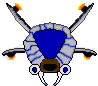
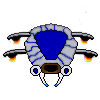
Added hitbox and updated mob images

diff --git a/src/com/gameon/head/Engine.java b/src/com/gameon/head/Engine.java
@@ -28,38 +28,21 @@ public class Engine {
 
 		this.p = new Player(rl.getShip(), null);
 		this.sn = new SuperNova(rl.getShip(), null);
+		enemies.add(new Enemy(rl.getRedEnemy(), null));
 	}
 	public void tick() {
-		removeExcess();
+		despawn();
 		move();
 		killHit();
 	}
 	public void tick(int[] keys) {
-		removeExcess();
+		despawn();
 		inputMovement(keys);
 		move();
 		killHit();
 	}
-	
-
-	private void removeExcess() {
-		for (int i = 0; i < enemies.size(); i++) {
-			if (enemies.get(i).getX() <= 50 || enemies.get(i).getX() >= 1300 || enemies.get(i).getY() <= 50
-					|| enemies.get(i).getY() >= 750) {
-				enemies.remove(i);
-			}
-		}
-		for (int i = 0; i < enemies.size(); i++) {
-			if (shots.get(i).getX() <= 50 || shots.get(i).getX() >= 1300 || shots.get(i).getY() <= -69
-					|| shots.get(i).getY() >= 750) {
-				shots.remove(i);
-			}
-		}
-
-	}
 
 	private void inputMovement(int[] keys) {
-
 		for (int key : keys) {
 
 			if (key == 65 || key == 97) {// A
@@ -91,6 +74,7 @@ public class Engine {
 	}
 
 	private void move() {
+		
 		sn.addDistance();
 		p.addDistance();
 		if (enemies != null) {
@@ -103,28 +87,55 @@ public class Engine {
 			shots.get(i).move();
 		}
 		// Add deathAnimation
-		enemies.add(new Enemy(rl.getRedEnemy(), null));
+		
 
 	}
 
+	
+	private void despawn(){
+		for (int i = 0; i < enemies.size(); i++) {
+			if (enemies.get(i).getX() <= -100 || enemies.get(i).getX() >= 1300 || enemies.get(i).getY() <= -100 || enemies.get(i).getY() >= 750  || enemies.get(i).isKilled()) {
+				enemies.remove(i);
+			}
+		}
+		for (int i = 0; i < shots.size(); i++) {
+			if (shots.get(i).getX() <= -100 || shots.get(i).getX() >= 1300 || shots.get(i).getY() <= -100 || shots.get(i).getY() >= 750) {
+				shots.remove(i);
+			}
+		}
+		
+	}
 	private void killHit() {
 		// Detects any enemy that has crashed into the player
 		for (int i = 0; i < enemies.size(); i++) {
-			if (enemies.get(i).killed()) {
-				if (collisionDetect(enemies.get(i), p)) {
-					enemies.get(i).kill();
+			if (collisionDetect(enemies.get(i), p)) {
+					enemies.remove(i);
+					p.kill();
 				}
-			}
-
+				for(int j = 0; j < shots.size(); j++){
+					if(collisionDetect(enemies.get(i), shots.get(j))){
+						enemies.remove(i);
+						shots.remove(j);
+					}
+				}
 		}
-	}
 
+	}
+	
 	private boolean collisionDetect(Hitboxer hb1, Hitboxer hb2) {
-		Rectangle2D.Double rect1 = new Rectangle2D.Double(hb2.getX(), hb2.getY(), hb2.getWidth(), hb2.getHeight());
-		Rectangle2D.Double rect2 = new Rectangle2D.Double(hb2.getX(), hb2.getY(), hb2.getWidth(), hb2.getHeight());
-		if (rect1.contains(rect2)) {
+		/*Rectangle2D.Float rect1 = new Rectangle2D.Float((float)hb2.getX(), (float)hb2.getY(), (float)hb2.getWidth(), (float)hb2.getHeight());
+		Rectangle2D.Float rect2 = new Rectangle2D.Float((float)hb2.getX(), (float)hb2.getY(), (float)hb2.getWidth(), (float)hb2.getHeight());
+		if (rect1.intersects(rect2)) {
+			System.out.println("hit");
 			return true;
 		} else {
+			return false;
+		}*/
+		System.out.println(hb1.getY() + " vs " + hb2.getY());
+		if(hb1.getY() + hb1.getHeight() > hb2.getY() && hb1.getY() < hb2.getY() && hb1.getX() + hb1.getWidth() > hb2.getX() && hb1.getX() < hb2.getX()){
+			return true;
+		}
+		else{
 			return false;
 		}
 	}

diff --git a/src/com/gameon/head/Game.java b/src/com/gameon/head/Game.java
@@ -21,13 +21,11 @@ public class Game extends Applet implements Runnable {
 	private int ticks = 0;
 	private int aliveTime = 0;
 	private long timer = 0;
-
 	private Engine engine;
-	private ResourceLoader rl;
 	private KeyBoardInput input;
 
 	public void init() {
-
+		input = new KeyBoardInput();
 		addKeyListener(input);
 		image = createImage(WIDTH, HEIGHT);
 		g = (Graphics2D) image.getGraphics();
@@ -54,7 +52,6 @@ public class Game extends Applet implements Runnable {
 
 		if (engine.getShots() != null) {
 			for (int i = 0; i < engine.getShots().size(); i++) {
-				System.out.println(engine.getShots().size());
 				engine.getShots().get(i).draw(g);
 			}
 		}
@@ -77,16 +74,16 @@ public class Game extends Applet implements Runnable {
 		long lastTime = System.nanoTime();
 		final double ns = 1000000000.0 / 60.0; // A billion
 		double tickDelta = 0;
-		int[] keys;
+
 		while (thread != null) {
 			now = System.nanoTime();
 			tickDelta += (now - lastTime);
 			lastTime = now;
 			while (tickDelta >= ns) {
-				try {
-					keys = input.getKeys();
+				if (input.getLength() > 0) {
+					int[] keys = input.getKeys();
 					engine.tick(keys);
-				} catch (NullPointerException e) {
+				} else {
 					engine.tick();
 				}
 

diff --git a/src/com/gameon/input/KeyBoardInput.java b/src/com/gameon/input/KeyBoardInput.java
@@ -7,14 +7,21 @@ import java.util.LinkedList;
 public class KeyBoardInput extends KeyAdapter {
 	/**
 	 * 
-	 * the class collects keyStrokes and then deletes them after they've been sent 
-	 * 	
-	**/
+	 * the class collects keyStrokes and then deletes them after they've been
+	 * sent
+	 * 
+	 **/
 	private LinkedList<Integer> pressedKeys = new LinkedList<Integer>();
 
+	public int getLength() {
+		return this.pressedKeys.size();
+	}
+
 	public int[] getKeys() {
+
 		if (pressedKeys.isEmpty()) {
-			return new int[0];
+			int[] a = { 0 };
+			return a;
 		} else {
 			int[] a = new int[pressedKeys.size()];
 			for (int i = 0; i < a.length; i++) {
@@ -27,7 +34,6 @@ public class KeyBoardInput extends KeyAdapter {
 	}
 
 	public void keyPressed(KeyEvent e) {
-		System.out.println(e.getKeyChar());
 		pressedKeys.add((int) e.getKeyChar());
 		e.consume();
 	}

diff --git a/src/com/gameon/hitboxers/Hitboxer.java b/src/com/gameon/hitboxers/Hitboxer.java
@@ -37,10 +37,10 @@ public class Hitboxer {
 
 	}
 
-	public boolean killed() {
+
+	public boolean killed(){
 		return killed;
 	}
-
 	public void kill() {
 		this.killed = true;
 
@@ -60,5 +60,24 @@ public class Hitboxer {
 
 	public int getHeight() {
 		return height;
+	}
+
+	public boolean isKilled() {
+		if(this.killed && this.deathAnimation.length <= this.deathState){
+			return true;
+		}
+		else{
+			return false;
+		}
+		
+		
+	}
+
+	public byte getDeathState() {
+		return deathState;
+	}
+
+	public double getMax() {
+		return max;
 	}
 }

diff --git a/src/com/gameon/hitboxers/Enemy.java b/src/com/gameon/hitboxers/Enemy.java
@@ -3,7 +3,6 @@ package com.gameon.hitboxers;
 import java.awt.Image;
 
 public class Enemy extends Hitboxer {
-	private boolean alive = true;
 
 	public Enemy(Image image, Image[] da) {
 		super(image, da);
@@ -12,11 +11,10 @@ public class Enemy extends Hitboxer {
 	}
 
 	public void move(double amount) {
-
+		this.y += amount;
 	}
 
 	public boolean hit() {
 		return true;
 	}
-
 }

diff --git a/src/com/gameon/hitboxers/Player.java b/src/com/gameon/hitboxers/Player.java
@@ -3,18 +3,21 @@ package com.gameon.hitboxers;
 import java.awt.Image;
 
 public class Player extends Speeder {
-
+	private byte lane;
 	public Player(Image image, Image[] da) {
 		super(image, da);
 		this.x = 600;
 		this.y = 550;
+		this.lane = 0;
 	}
 
 	public void moveLeft() {
 		this.x -= 40;
+		lane--;
 	}
 
 	public void moveRight() {
 		this.x += 40;
+		lane++;
 	}
 }

diff --git a/src/com/gameon/hitboxers/Shot.java b/src/com/gameon/hitboxers/Shot.java
@@ -1,6 +1,5 @@
 package com.gameon.hitboxers;
 
-import java.awt.Graphics2D;
 import java.awt.Image;
 
 public class Shot extends Hitboxer {
@@ -13,12 +12,9 @@ public class Shot extends Hitboxer {
 		this.width = 27;
 		this.height = 69;
 		this.color= type;
-		
 	}
 	public void move(){
-		y-=10;
+		y-=20;
 	}
-	private byte type;
-	private double vel;
 	
 }
